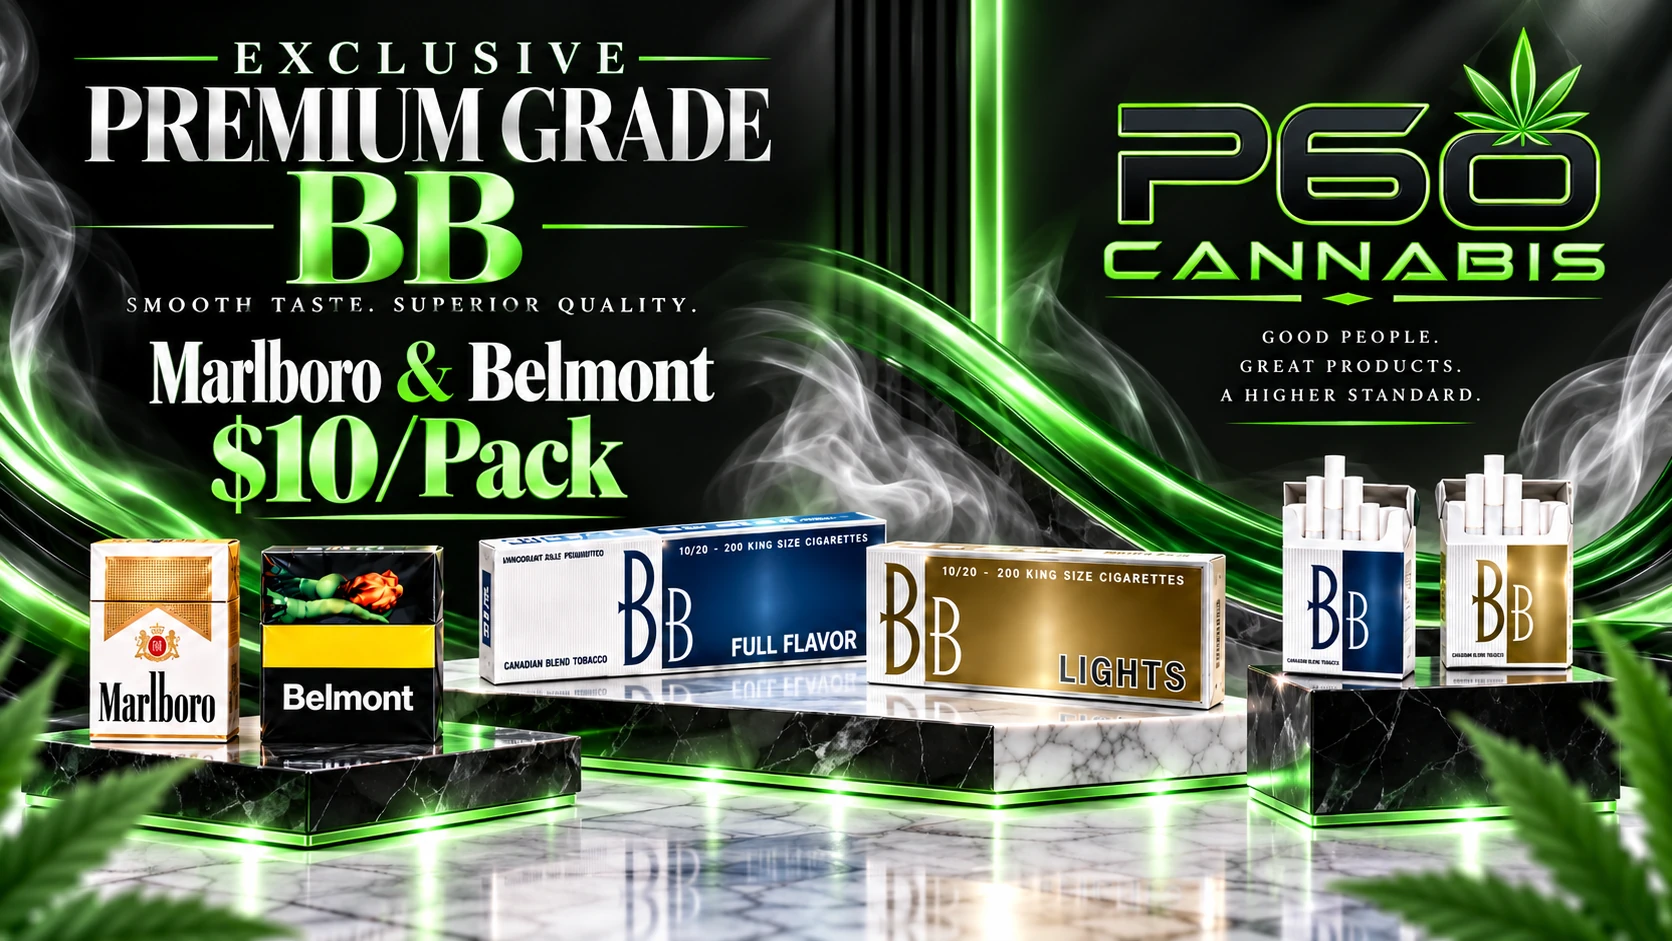
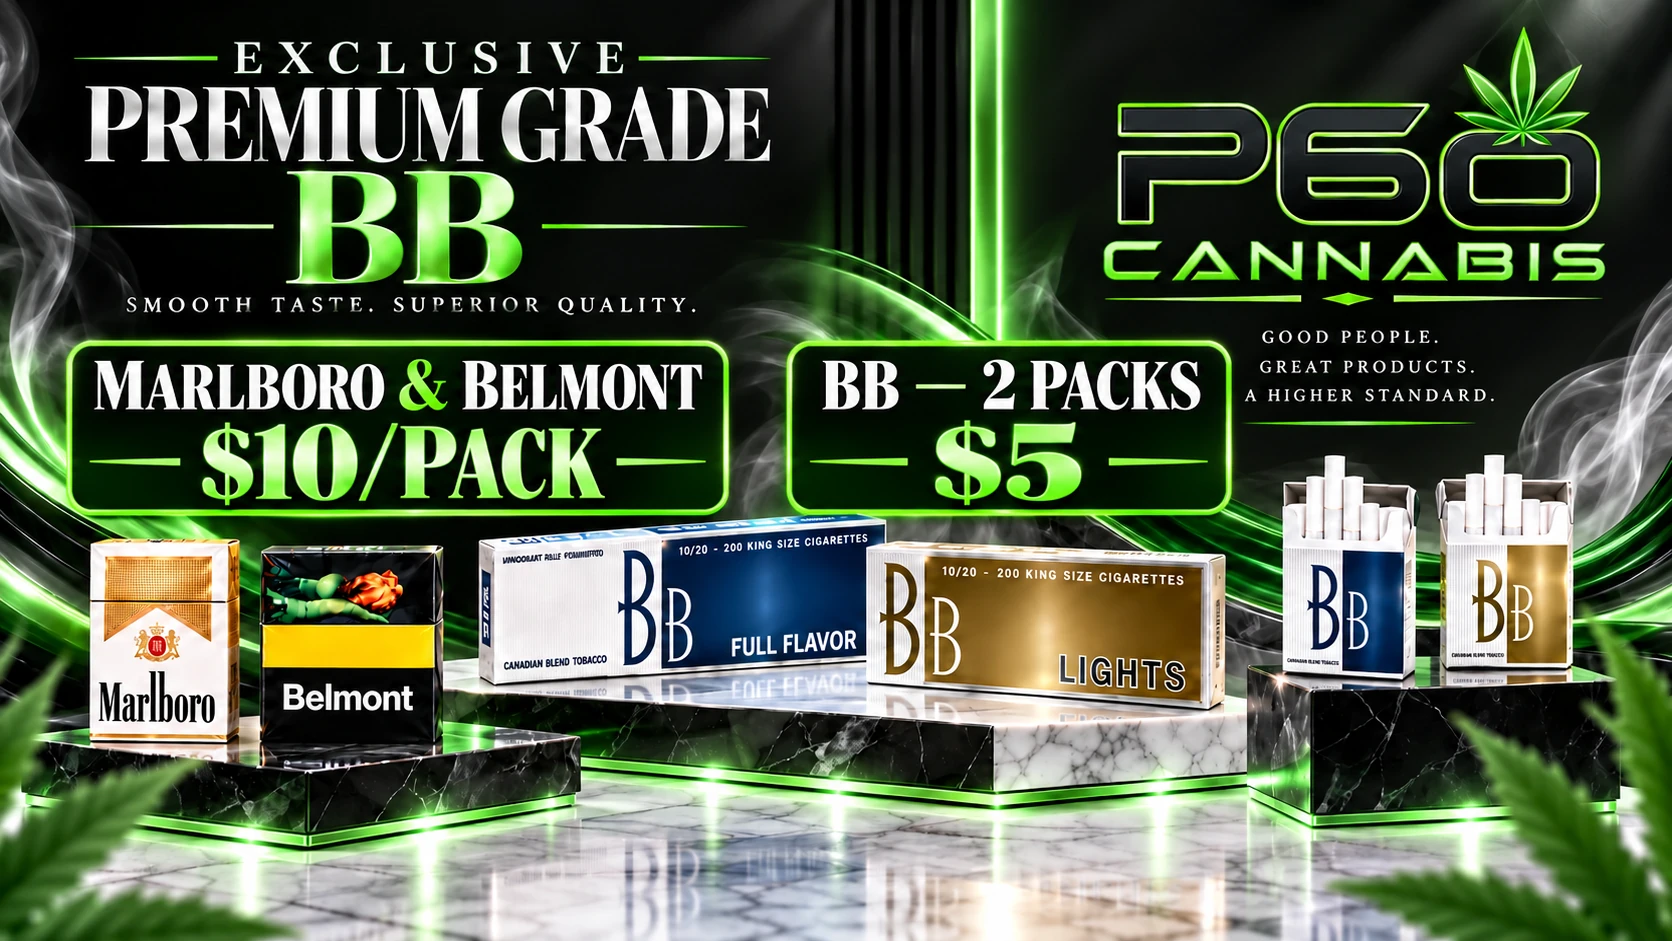
Add core promos to matching categories (#79)
* Add core promos to matching categories

* Fix homepage banner stack clipping

* Clarify category scope and cigarette offers

diff --git a/app/components/CategoryCoreBanners.tsx b/app/components/CategoryCoreBanners.tsx
@@ -1,0 +1,52 @@
+import Link from "next/link";
+
+type CategoryCoreBannersProps = { kind: "weed" | "vapes" | "cigarettes" };
+
+const STORE_NAME = "P60 Cannabis";
+const STORE_AREA = "Weston Road, York";
+const STORE_ORIGIN = "https://www.p60cannabis.com";
+const TOP_WEED_IMAGE = "/banners/core-top-weed-tier.webp";
+const CIGARETTE_IMAGE = "/banners/native-cigarette-offer-20260822.webp";
+const VAPE_IMAGE = "/banners/core-vapes-nicotine-thc.webp";
+const PREMIUM_CIGARETTE_IMAGE = "/banners/core-premium-bb-marlboro-belmont.webp";
+
+export const cigaretteCategoryImage = {
+  alt: `${STORE_NAME} in ${STORE_AREA} — 2 packs for $5 mix and match and $25 carton cigarette offer`,
+  title: `${STORE_NAME} cigarette offer — 2 packs $5 mix and match, $25 carton`,
+};
+
+const promos = {
+  weed: { image: TOP_WEED_IMAGE, href: "/exotic-weed", alt: `${STORE_NAME} in ${STORE_AREA} — Exotic, Premium and AAA+ top weed tiers`, title: `${STORE_NAME} top weed tiers — Exotic, Premium and AAA+`, caption: "Exotic, Premium and AAA+ weed", linkLabel: "Shop weed tiers", schemaName: `${STORE_NAME} top weed tiers`, schemaDescription: `Exotic, Premium and AAA+ weed tiers at ${STORE_NAME} in ${STORE_AREA}.` },
+  vapes: { image: VAPE_IMAGE, href: "/items/vapes", alt: `${STORE_NAME} in ${STORE_AREA} — nicotine vapes and THC vapes`, title: `${STORE_NAME} nicotine vapes and THC vapes`, caption: "Nicotine vapes + THC vapes", linkLabel: "Shop vapes", schemaName: `${STORE_NAME} nicotine and THC vapes`, schemaDescription: `Nicotine vapes and THC vapes at ${STORE_NAME} in ${STORE_AREA}.` },
+  cigarettes: { image: CIGARETTE_IMAGE, href: "/items/cigarettes", alt: cigaretteCategoryImage.alt, title: cigaretteCategoryImage.title, caption: "2 packs $5 mix & match · $25 carton", linkLabel: "Shop cigarettes", schemaName: `${STORE_NAME} cigarette mix and match`, schemaDescription: `Two packs for $5 mix and match and $25 carton cigarette offer at ${STORE_NAME} in ${STORE_AREA}.` },
+  premium: { image: PREMIUM_CIGARETTE_IMAGE, href: "/items/cigarettes", alt: `${STORE_NAME} in ${STORE_AREA} — BB Full Flavor and Lights 2 packs for $5, Marlboro and Belmont $10 per pack`, title: `${STORE_NAME} premium cigarettes — BB 2 packs $5, Marlboro and Belmont $10 per pack`, caption: "BB Full Flavor + Lights — 2 packs $5 · Marlboro & Belmont — $10/pack", linkLabel: "Shop cigarettes", schemaName: `${STORE_NAME} premium cigarette offer`, schemaDescription: `BB Full Flavor and Lights two packs for $5 plus Marlboro and Belmont for $10 per pack at ${STORE_NAME} in ${STORE_AREA}.` },
+} as const;
+
+const figureStyle = { margin: 0, width: "100%" } as const;
+const imageStyle = { display: "block", width: "100%", maxWidth: "100%", height: "auto" } as const;
+const captionStyle = { margin: 0, padding: "14px 18px", background: "#111827", color: "#ffffff", textAlign: "center" as const, fontSize: "clamp(17px, 1.7vw, 28px)", fontWeight: 800, lineHeight: 1.35 };
+const captionLinkStyle = { color: "inherit", textDecoration: "underline", textUnderlineOffset: "3px" } as const;
+
+function PromoFigure({ promo, renderImage = true }: { promo: (typeof promos)[keyof typeof promos]; renderImage?: boolean }) {
+  return (
+    <figure data-category-core-banner={promo === promos.premium ? "premium-cigarettes" : promo === promos.cigarettes ? "cigarettes" : promo === promos.vapes ? "vapes" : "weed"} style={figureStyle}>
+      {renderImage ? <Link href={promo.href} aria-label={promo.alt} style={{ display: "block", width: "100%" }}>
+        {/* eslint-disable-next-line @next/next/no-img-element */}
+        <img src={promo.image} alt={promo.alt} title={promo.title} style={imageStyle} loading="lazy" />
+      </Link> : null}
+      <figcaption style={captionStyle}>{promo.caption} · <Link href={promo.href} style={captionLinkStyle}>{promo.linkLabel}</Link></figcaption>
+    </figure>
+  );
+}
+
+export default function CategoryCoreBanners({ kind }: CategoryCoreBannersProps) {
+  const visiblePromos = kind === "cigarettes" ? [promos.cigarettes, promos.premium] : [promos[kind]];
+  const imageObjects = visiblePromos.map((promo) => ({ "@type": "ImageObject", name: promo.schemaName, description: promo.schemaDescription, contentUrl: `${STORE_ORIGIN}${promo.image}` }));
+  return (
+    <section data-category-core-promos={kind} aria-label={`${STORE_NAME} ${kind} promotions`} style={{ width: "100%", maxWidth: "100%", overflowX: "hidden", marginBottom: "24px" }}>
+      <script type="application/ld+json" dangerouslySetInnerHTML={{ __html: JSON.stringify({ "@context": "https://schema.org", "@graph": imageObjects }).replace(/</g, "\\u003c") }} />
+      {kind === "cigarettes" ? <PromoFigure promo={promos.cigarettes} renderImage={false} /> : <PromoFigure promo={promos[kind]} />}
+      {kind === "cigarettes" ? <PromoFigure promo={promos.premium} /> : null}
+    </section>
+  );
+}

diff --git a/app/components/FleetAnnouncementBanner.tsx b/app/components/FleetAnnouncementBanner.tsx
@@ -15,7 +15,7 @@ const imageObjects = [
   { name: `${STORE_NAME} top weed tiers`, description: `Exotic, Premium and AAA+ weed tiers at ${STORE_NAME} in ${STORE_AREA}.`, contentUrl: `${STORE_ORIGIN}${TOP_WEED_IMAGE}` },
   { name: `${STORE_NAME} nicotine and THC vapes`, description: `Nicotine vapes and THC vapes at ${STORE_NAME} in ${STORE_AREA}.`, contentUrl: `${STORE_ORIGIN}${VAPE_IMAGE}` },
   { name: `${STORE_NAME} cigarette mix and match`, description: `Two packs for $5 mix and match and $25 carton cigarette offer at ${STORE_NAME} in ${STORE_AREA}.`, contentUrl: `${STORE_ORIGIN}${CIGARETTE_IMAGE}` },
-  { name: `${STORE_NAME} premium cigarette offer`, description: `BB Full Flavor and Lights plus Marlboro and Belmont cigarette offer at ${STORE_NAME} in ${STORE_AREA}.`, contentUrl: `${STORE_ORIGIN}${PREMIUM_CIGARETTE_IMAGE}` },
+  { name: `${STORE_NAME} premium cigarette offer`, description: `BB Full Flavor and Lights two packs for $5 plus Marlboro and Belmont for $10 per pack at ${STORE_NAME} in ${STORE_AREA}.`, contentUrl: `${STORE_ORIGIN}${PREMIUM_CIGARETTE_IMAGE}` },
 ].map((image) => ({ "@type": "ImageObject", ...image }));
 
 function isThanksgivingNoticeActive(date: Date) {
@@ -28,7 +28,7 @@ function isThanksgivingNoticeActive(date: Date) {
 const figureStyle = { margin: 0, width: "100%" } as const;
 const imageStyle = { display: "block", width: "100%", maxWidth: "100%", height: "auto" } as const;
 const linkStyle = { display: "block", width: "100%" } as const;
-const captionStyle = { margin: 0, padding: "10px 14px", background: "#111827", color: "#ffffff", textAlign: "center" as const, fontWeight: 800, lineHeight: 1.35 };
+const captionStyle = { margin: 0, padding: "14px 18px", background: "#111827", color: "#ffffff", textAlign: "center" as const, fontSize: "clamp(17px, 1.7vw, 28px)", fontWeight: 800, lineHeight: 1.35 };
 const captionLinkStyle = { color: "inherit", textDecoration: "underline", textUnderlineOffset: "3px" } as const;
 
 export default function FleetAnnouncementBanner() {
@@ -71,9 +71,9 @@ export default function FleetAnnouncementBanner() {
       <figure data-core-banner="premium-cigarettes" data-premium-cigarette-banner="" style={figureStyle}>
         <Link href="/items/cigarettes" aria-label={`Shop BB, Marlboro and Belmont cigarette offers at ${STORE_NAME}`} style={linkStyle}>
           {/* eslint-disable-next-line @next/next/no-img-element */}
-          <img src={PREMIUM_CIGARETTE_IMAGE} alt={`${STORE_NAME} in ${STORE_AREA} — BB Full Flavor and Lights, Marlboro and Belmont premium cigarettes`} title={`${STORE_NAME} premium cigarettes — BB, Marlboro and Belmont`} style={imageStyle} loading="lazy" />
+          <img src={PREMIUM_CIGARETTE_IMAGE} alt={`${STORE_NAME} in ${STORE_AREA} — BB Full Flavor and Lights 2 packs for $5, Marlboro and Belmont $10 per pack`} title={`${STORE_NAME} premium cigarettes — BB 2 packs $5, Marlboro and Belmont $10 per pack`} style={imageStyle} loading="lazy" />
         </Link>
-        <figcaption style={captionStyle}>BB Full Flavor + Lights · Marlboro &amp; Belmont $10/pack · <Link href="/items/cigarettes" style={captionLinkStyle}>Shop cigarettes</Link></figcaption>
+        <figcaption style={captionStyle}>BB Full Flavor + Lights — 2 packs $5 · Marlboro &amp; Belmont — $10/pack · <Link href="/items/cigarettes" style={captionLinkStyle}>Shop cigarettes</Link></figcaption>
       </figure>
       {showThanksgivingNotice ? <p data-thanksgiving-hours-notice="">Thanksgiving Monday (Oct 12): We are open regular hours.</p> : null}
     </aside>

diff --git a/app/items/[category]/page.tsx b/app/items/[category]/page.tsx
@@ -4,6 +4,7 @@ import fs from "fs";
 import path from "path";
 import Link from "next/link";
 import Navbar from "../../components/Navbar";
+import CategoryCoreBanners, { cigaretteCategoryImage } from "../../components/CategoryCoreBanners";
 import Footer from "../../components/Footer";
 import SafeImage from "../../components/SafeImage";
 import { getItemPriceDisplay } from "../../lib/itemPricing";
@@ -80,7 +81,8 @@ export default async function ItemsCategoryPage({
         {config.banner && bannerExists ? (
           <img
             src={config.banner}
-            alt={config.name}
+            alt={catSlug === "cigarettes" ? cigaretteCategoryImage.alt : config.name}
+              title={catSlug === "cigarettes" ? cigaretteCategoryImage.title : config.name}
             className={styles.bannerImg}
           />
         ) : (
@@ -93,6 +95,9 @@ export default async function ItemsCategoryPage({
           </div>
         )}
       </section>
+
+      {(catSlug === "vapes" || catSlug === "vape-disposables") && <CategoryCoreBanners kind="vapes" />}
+      {catSlug === "cigarettes" && <CategoryCoreBanners kind="cigarettes" />}
 
       {/* Product Grid */}
       <section className={styles.products}>

diff --git a/app/[tier]/page.tsx b/app/[tier]/page.tsx
@@ -4,6 +4,7 @@ import Link from "next/link";
 import fs from "fs";
 import path from "path";
 import Navbar from "../components/Navbar";
+import CategoryCoreBanners from "../components/CategoryCoreBanners";
 import Footer from "../components/Footer";
 import FlowerCard from "../components/FlowerCard";
 import {
@@ -134,6 +135,8 @@ export default async function TierPage({
           />
         </section>
       )}
+
+      {["EXOTIC", "PREMIUM", "AAA+"].includes(tierInfo.key.toUpperCase()) ? <CategoryCoreBanners kind="weed" /> : null}
 
       {/* ── Hero Content BELOW banner ── */}
       <section

diff --git a/app/globals.css b/app/globals.css
@@ -472,10 +472,11 @@ button { cursor: pointer; font-family: inherit; }
 }
 
 [data-fleet-homepage-announcement] {
-  display: grid;
-  grid-template-rows: 1fr 1fr;
+  display: flex;
+  flex-direction: column;
   width: 100%;
-  height: var(--fleet-homepage-announcement-height);
+  height: auto;
+  min-height: 0;
 }
 
 [data-fleet-homepage-announcement] > p {
